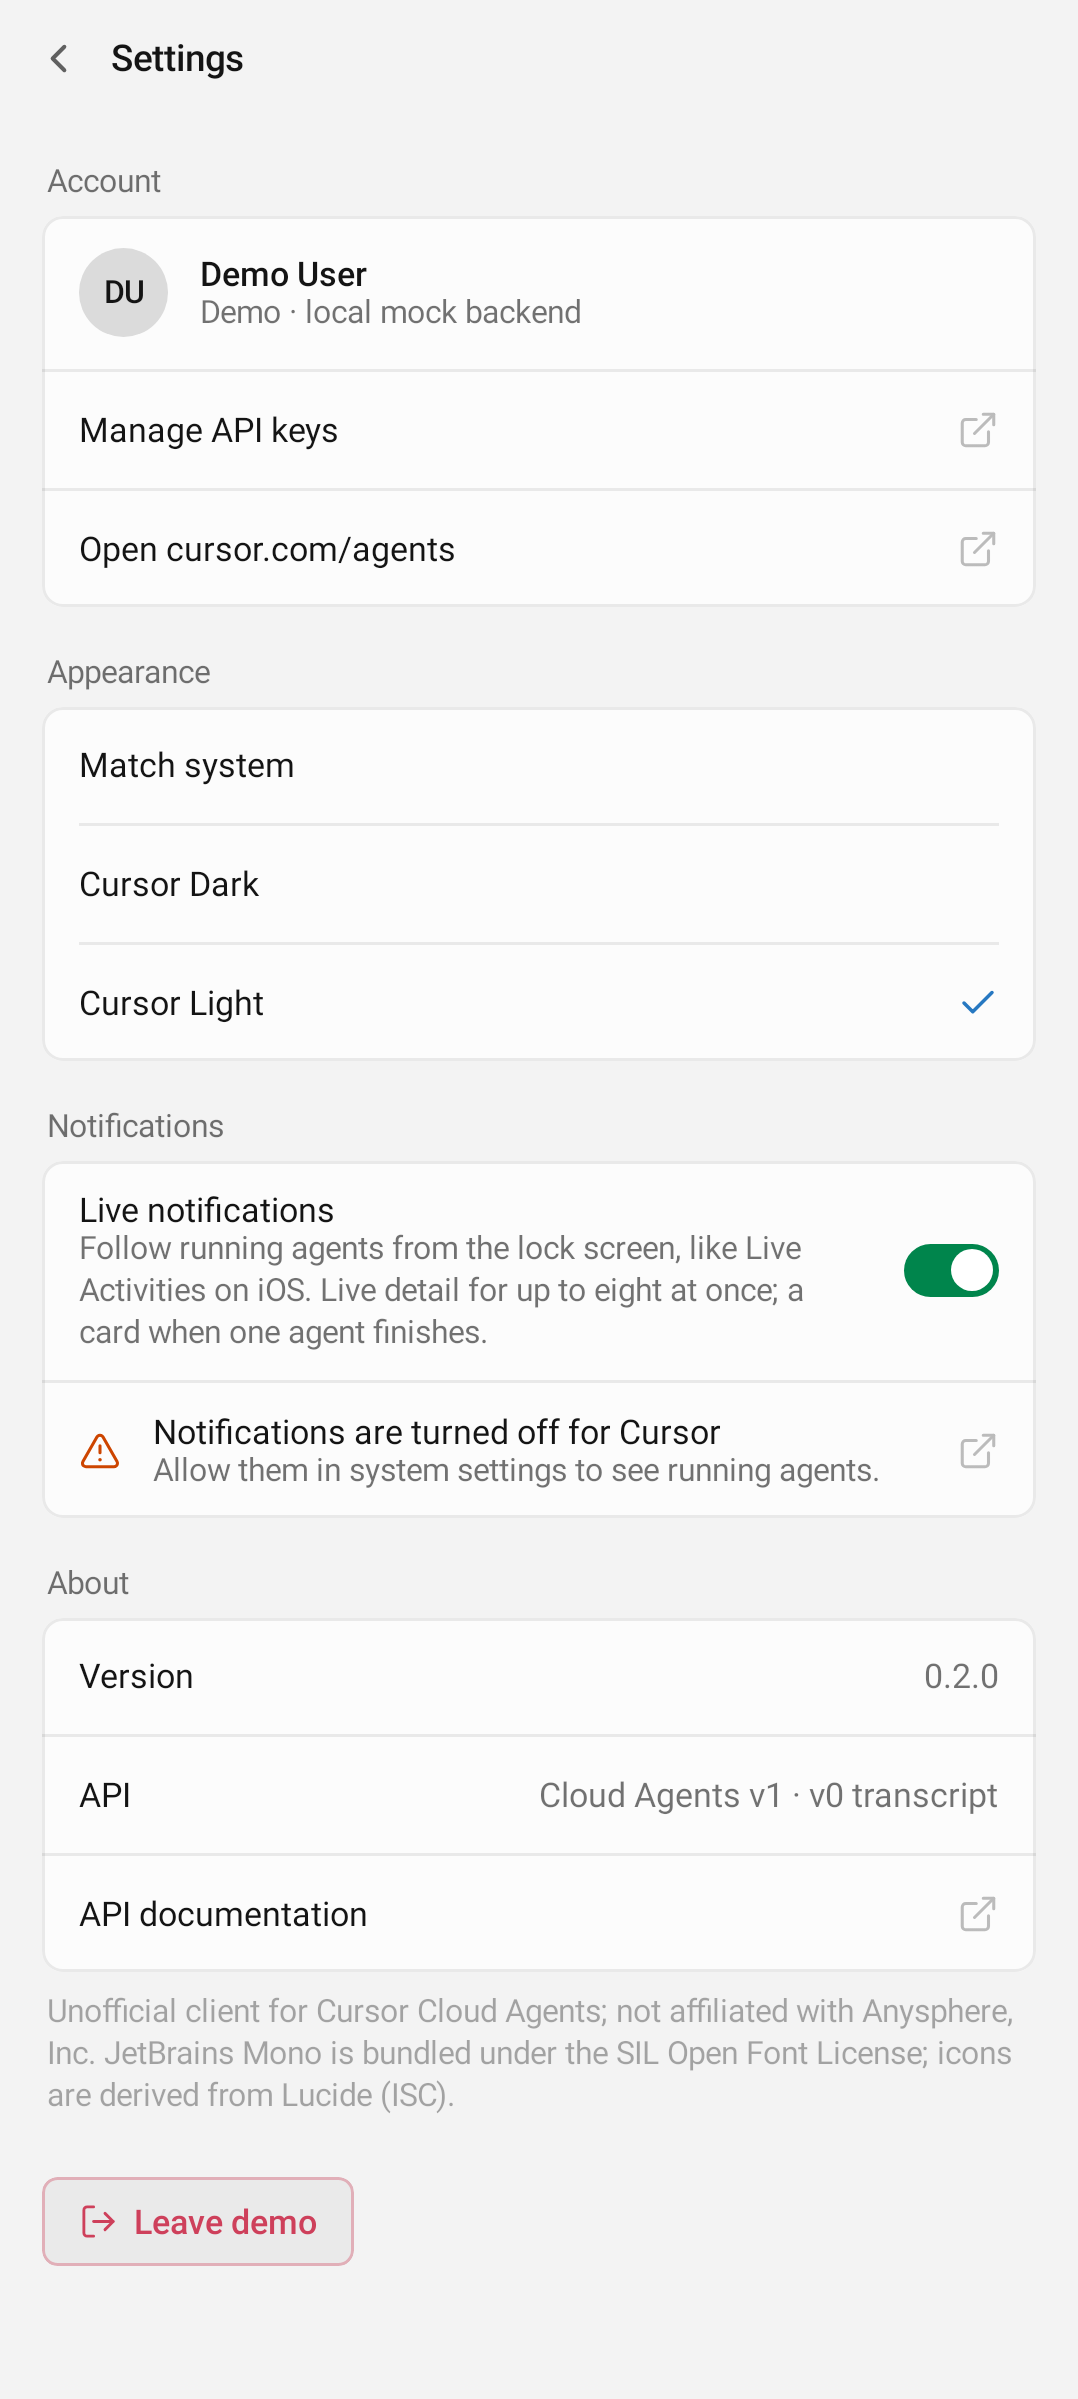
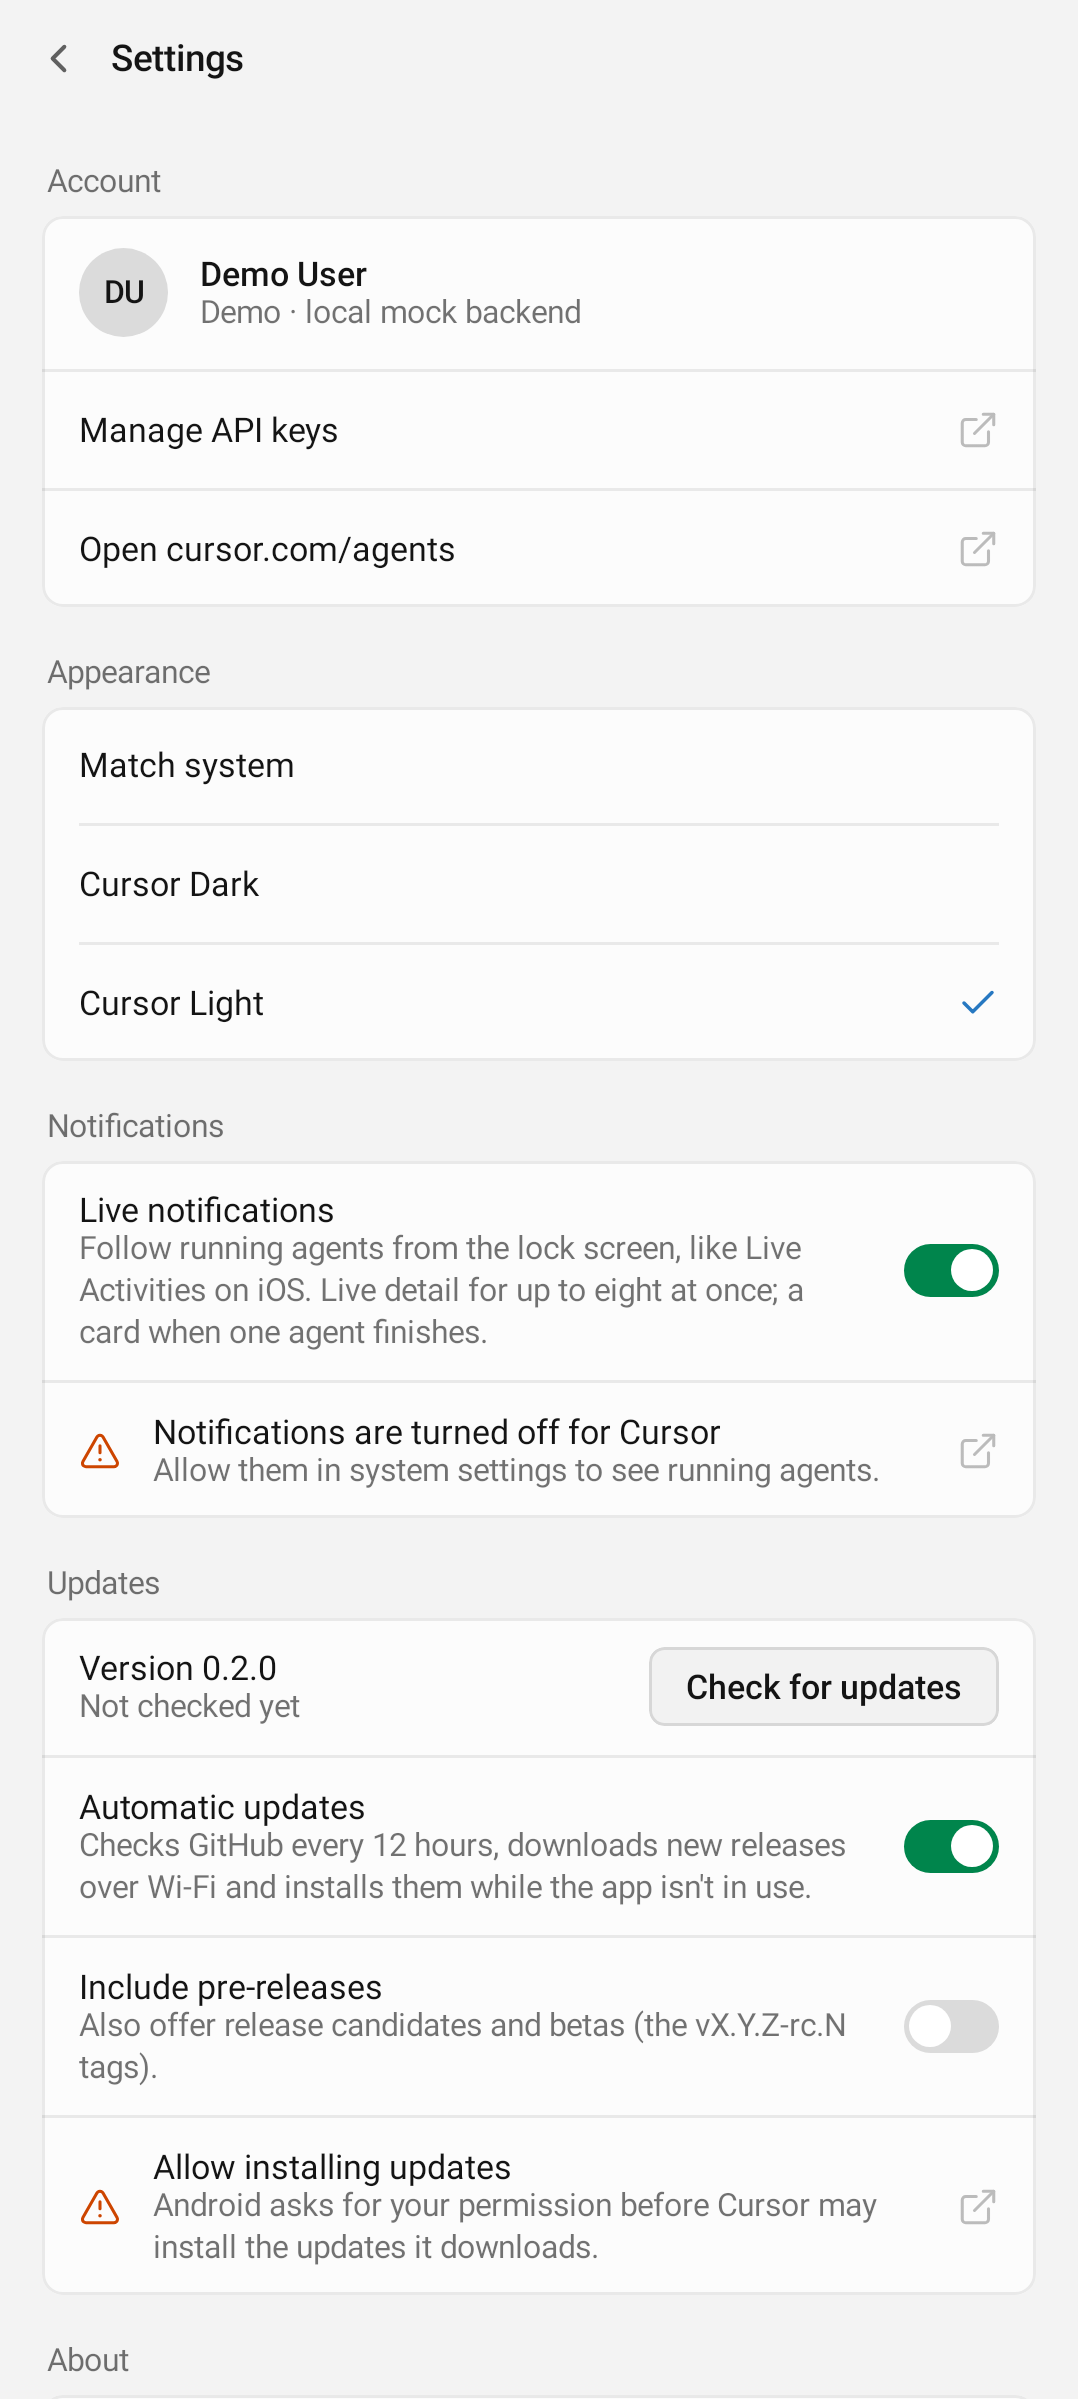
Settings: an Updates card, and an update hint in the sidebar footer
The Updates group shows the installed version with what the last check
found and the one action that follows from it - Check for updates,
Download (with progress and Cancel), Install, Confirm, Retry - plus a
link to the release page, the "Automatic updates" and "Include
pre-releases" toggles, and, until the user has allowed it, a row leading
to the system page where installing from this app is permitted. The
version row moves here from About, which gains a link to the repository
and its releases.

The sidebar shows "Update available" / "Update ready to install" above
the account footer while there is something to act on, in the manner of
the desktop app's restart-to-update affordance; it opens Settings.

The Settings screenshot is re-recorded for the new card.

diff --git a/app/src/main/java/com/cursorforandroid/ui/settings/SettingsScreen.kt b/app/src/main/java/com/cursorforandroid/ui/settings/SettingsScreen.kt
@@ -1,5 +1,8 @@
 package com.cursorforandroid.ui.settings
 
+import android.content.Intent
+import android.os.Build
+import android.provider.Settings
 import androidx.compose.foundation.background
 import androidx.compose.foundation.layout.Arrangement
 import androidx.compose.foundation.layout.Column
@@ -29,14 +32,19 @@ import androidx.compose.ui.platform.LocalContext
 import androidx.compose.ui.platform.LocalUriHandler
 import androidx.compose.ui.text.style.TextOverflow
 import androidx.compose.ui.unit.dp
+import androidx.core.net.toUri
 import androidx.lifecycle.compose.LifecycleResumeEffect
 import androidx.lifecycle.compose.collectAsStateWithLifecycle
 import com.cursorforandroid.AppGraph
 import com.cursorforandroid.BuildConfig
 import com.cursorforandroid.data.api.CursorEndpoints
 import com.cursorforandroid.data.repo.SessionState
+import com.cursorforandroid.data.update.GitHubReleasesClient
+import com.cursorforandroid.data.update.UpdateManager
 import com.cursorforandroid.domain.CursorUser
 import com.cursorforandroid.domain.SignInMethod
+import com.cursorforandroid.domain.UpdatePhase
+import com.cursorforandroid.domain.UpdateState
 import com.cursorforandroid.notifications.LiveNotifications
 import com.cursorforandroid.ui.agents.Avatar
 import com.cursorforandroid.ui.components.CursorButton
@@ -52,6 +60,7 @@ import com.cursorforandroid.ui.theme.CursorTheme
 import com.cursorforandroid.ui.theme.ThemeMode
 import com.cursorforandroid.util.TimeFormat
 import kotlinx.coroutines.launch
+import java.util.Locale
 
 /** Settings in the desktop settings-page idiom: 12sp group labels, bordered cards of 38dp rows. */
 @Composable
@@ -139,13 +148,18 @@ fun SettingsScreen(
                 NotificationRows(graph)
             }
 
+            Group("Updates")
+            CursorCard(Modifier.fillMaxWidth().widthIn(max = 640.dp)) {
+                UpdateRows(graph, uriHandler::openUri)
+            }
+
             Group("About")
             CursorCard(Modifier.fillMaxWidth().widthIn(max = 640.dp)) {
-                InfoRow("Version", BuildConfig.VERSION_NAME)
-                HairlineDivider()
                 InfoRow("API", "Cloud Agents v1 · v0 transcript")
                 HairlineDivider()
                 LinkRow("API documentation", "https://cursor.com/docs/cloud-agent/api/endpoints", uriHandler::openUri)
+                HairlineDivider()
+                LinkRow("Source code and releases", GitHubReleasesClient.releasesPageUrl(BuildConfig.GITHUB_REPO), uriHandler::openUri)
             }
             Text(
                 "Unofficial client for Cursor Cloud Agents; not affiliated with Anysphere, Inc. JetBrains Mono is bundled under the SIL Open Font License; icons are derived from Lucide (ISC).",
@@ -206,6 +220,135 @@ private fun NotificationRows(graph: AppGraph) {
             subtitle = "Adds the status-bar chip and the lock-screen card on Android 16.",
             onClick = { runCatching { context.startActivity(liveUpdatesIntent) } },
         )
+    }
+}
+
+/**
+ * The in-app updater: the installed version with what the last check found and the one action that follows from it
+ * (check, download, install, retry), the release page, the two preferences, and — until the user has allowed it —
+ * the system page where installing from this app is permitted. The permission is re-read when the screen resumes.
+ */
+@Composable
+private fun UpdateRows(graph: AppGraph, open: (String) -> Unit) {
+    val colors = CursorTheme.colors
+    val type = CursorTheme.typography
+    val scope = rememberCoroutineScope()
+    val context = LocalContext.current
+    val updates = graph.updates
+    val state by updates.state.collectAsStateWithLifecycle()
+    val autoUpdate by updates.autoUpdate.collectAsStateWithLifecycle(initialValue = true)
+    val includePreReleases by updates.includePreReleases.collectAsStateWithLifecycle(initialValue = false)
+    var resumeCount by remember { mutableIntStateOf(0) }
+    LifecycleResumeEffect(Unit) {
+        resumeCount++
+        onPauseOrDispose { }
+    }
+    val canInstall = remember(resumeCount) { context.packageManager.canRequestPackageInstalls() }
+    val allowInstalls = {
+        runCatching {
+            context.startActivity(Intent(Settings.ACTION_MANAGE_UNKNOWN_APP_SOURCES, "package:${context.packageName}".toUri()))
+        }
+    }
+
+    Row(Modifier.fillMaxWidth().padding(horizontal = 14.dp, vertical = 11.dp), verticalAlignment = Alignment.CenterVertically) {
+        Column(Modifier.weight(1f)) {
+            Text("Version ${BuildConfig.VERSION_NAME}", style = type.base, color = colors.textPrimary)
+            Text(
+                updateStatusLine(state),
+                style = type.small,
+                color = if (state is UpdateState.Failed) colors.red else colors.textTertiary,
+            )
+        }
+        Spacer(Modifier.width(12.dp))
+        when (val s = state) {
+            UpdateState.Idle, is UpdateState.UpToDate, is UpdateState.Installed ->
+                CursorButton("Check for updates", onClick = updates::checkNow, height = 30.dp)
+            UpdateState.Checking -> CursorButton("Checking…", onClick = {}, enabled = false, height = 30.dp)
+            is UpdateState.Available ->
+                if (s.signatureMismatch) {
+                    CursorButton("Open release", onClick = { open(s.release.htmlUrl) }, height = 30.dp)
+                } else {
+                    CursorButton("Download", onClick = updates::downloadNow, primary = true, height = 30.dp)
+                }
+            is UpdateState.Downloading -> CursorButton("Cancel", onClick = updates::cancelDownload, height = 30.dp)
+            is UpdateState.Downloaded ->
+                CursorButton("Install", onClick = { if (canInstall) updates.installNow() else allowInstalls() }, primary = true, height = 30.dp)
+            is UpdateState.Installing ->
+                if (s.awaitingConfirmation) {
+                    CursorButton("Confirm", onClick = updates::resumePendingInstall, primary = true, height = 30.dp)
+                } else {
+                    CursorButton("Installing…", onClick = {}, enabled = false, height = 30.dp)
+                }
+            is UpdateState.Failed ->
+                CursorButton(if (s.phase == UpdatePhase.Check) "Check again" else "Retry", onClick = updates::retry, height = 30.dp)
+        }
+    }
+    state.release?.takeIf { it.htmlUrl.isNotBlank() }?.let { release ->
+        HairlineDivider()
+        LinkRow("What's new in ${release.versionName}", release.htmlUrl, open)
+    }
+    HairlineDivider()
+    ToggleRow(
+        title = "Automatic updates",
+        subtitle = if (Build.VERSION.SDK_INT >= UpdateManager.SILENT_SELF_UPDATE_SDK) {
+            "Checks GitHub every 12 hours, downloads new releases over Wi-Fi and installs them while the app isn't in use."
+        } else {
+            "Checks GitHub every 12 hours, downloads new releases over Wi-Fi and lets you know when one is ready to install."
+        },
+        checked = autoUpdate,
+        onCheckedChange = { scope.launch { updates.setAutoUpdate(it) } },
+    )
+    HairlineDivider()
+    ToggleRow(
+        title = "Include pre-releases",
+        subtitle = "Also offer release candidates and betas (the vX.Y.Z-rc.N tags).",
+        checked = includePreReleases,
+        onCheckedChange = { scope.launch { updates.setIncludePreReleases(it) } },
+    )
+    if (!canInstall) {
+        HairlineDivider()
+        HintRow(
+            title = "Allow installing updates",
+            subtitle = "Android asks for your permission before Cursor may install the updates it downloads.",
+            onClick = { allowInstalls() },
+        )
+    }
+}
+
+private fun updateStatusLine(state: UpdateState): String = when (state) {
+    UpdateState.Idle -> "Not checked yet"
+    UpdateState.Checking -> "Checking GitHub for a newer release…"
+    is UpdateState.UpToDate -> "Up to date · ${checkedLabel(state.checkedAtMs)}"
+    is UpdateState.Available ->
+        if (state.signatureMismatch) "${state.release.versionName} is out, but signed with a different key" else "${state.release.versionName} is available"
+    is UpdateState.Downloading -> state.fraction?.let { "Downloading ${state.release.versionName}… ${(it * 100).toInt()}%" }
+        ?: "Downloading ${state.release.versionName}… ${"%.1f".format(Locale.US, state.bytesRead / 1_048_576.0)} MB"
+    is UpdateState.Downloaded -> "${state.release.versionName} is ready · the app closes while it installs"
+    is UpdateState.Installing -> if (state.awaitingConfirmation) "Waiting for you to confirm the installation" else "Installing ${state.release.versionName}…"
+    is UpdateState.Failed -> state.message
+    is UpdateState.Installed -> "Updated to ${state.versionName}"
+}
+
+/** "checked just now", "checked 4m ago", "checked Sep 4". */
+private fun checkedLabel(checkedAtMs: Long): String = when (val age = TimeFormat.relativeShort(checkedAtMs)) {
+    "now" -> "checked just now"
+    else -> if (age.last().isLetter() && age.length <= 4) "checked $age ago" else "checked $age"
+}
+
+@Composable
+private fun ToggleRow(title: String, subtitle: String, checked: Boolean, onCheckedChange: (Boolean) -> Unit) {
+    val colors = CursorTheme.colors
+    val type = CursorTheme.typography
+    Row(
+        Modifier.fillMaxWidth().pressable({ onCheckedChange(!checked) }, CursorTheme.shapes.lg).padding(horizontal = 14.dp, vertical = 11.dp),
+        verticalAlignment = Alignment.CenterVertically,
+    ) {
+        Column(Modifier.weight(1f)) {
+            Text(title, style = type.base, color = colors.textPrimary)
+            Text(subtitle, style = type.small, color = colors.textTertiary)
+        }
+        Spacer(Modifier.width(12.dp))
+        CursorToggle(checked = checked, onCheckedChange = onCheckedChange)
     }
 }
 

diff --git a/app/src/main/java/com/cursorforandroid/ui/agents/Sidebar.kt b/app/src/main/java/com/cursorforandroid/ui/agents/Sidebar.kt
@@ -89,6 +89,8 @@ fun Sidebar(
     onQueryChange: (String) -> Unit,
     callbacks: SidebarCallbacks,
     modifier: Modifier = Modifier,
+    /** "Update available · 0.3.0" and the like; a row above the account footer that opens Settings. Null hides it. */
+    updateHint: String? = null,
 ) {
     val colors = CursorTheme.colors
     val type = CursorTheme.typography
@@ -172,7 +174,26 @@ fun Sidebar(
         }
 
         HairlineDivider()
+        if (updateHint != null) {
+            UpdateHintRow(updateHint, onClick = callbacks.onSettings)
+            HairlineDivider()
+        }
         AccountFooter(user, isDemo, selected = selectedDestination == SidebarDestination.Settings, onClick = callbacks.onSettings)
+    }
+}
+
+/** The desktop app's "Restart to update" affordance, sized to the sidebar rows; leads to the Updates card in Settings. */
+@Composable
+private fun UpdateHintRow(text: String, onClick: () -> Unit) {
+    val colors = CursorTheme.colors
+    Row(
+        Modifier.fillMaxWidth().pressable(onClick, RectangleShape).height(CursorDimens.sidebarRow).padding(start = 16.dp, end = 14.dp),
+        verticalAlignment = Alignment.CenterVertically,
+    ) {
+        Icon(CursorIcons.ArrowDown, null, tint = colors.accent, modifier = Modifier.size(14.dp))
+        Spacer(Modifier.width(8.dp))
+        Text(text, style = CursorTheme.typography.small, color = colors.accent, maxLines = 1, overflow = TextOverflow.Ellipsis, modifier = Modifier.weight(1f))
+        Icon(CursorIcons.ChevronRight, null, tint = colors.iconQuaternary, modifier = Modifier.size(14.dp))
     }
 }
 

diff --git a/app/src/main/java/com/cursorforandroid/ui/navigation/AppNavHost.kt b/app/src/main/java/com/cursorforandroid/ui/navigation/AppNavHost.kt
@@ -33,6 +33,7 @@ import androidx.lifecycle.compose.collectAsStateWithLifecycle
 import androidx.lifecycle.viewmodel.compose.viewModel
 import com.cursorforandroid.AppGraph
 import com.cursorforandroid.domain.CursorUser
+import com.cursorforandroid.domain.UpdateState
 import com.cursorforandroid.notifications.NotificationPermissionPrompt
 import com.cursorforandroid.ui.agents.AgentRowActions
 import com.cursorforandroid.ui.agents.AgentsViewModel
@@ -122,6 +123,13 @@ fun AppNavHost(
         Screen.Settings -> SidebarDestination.Settings
         is Screen.Agent -> null
     }
+    val updateState by graph.updates.state.collectAsStateWithLifecycle()
+    val updateHint = when (val s = updateState) {
+        is UpdateState.Available -> if (s.signatureMismatch) null else "Update available · ${s.release.versionName}"
+        is UpdateState.Downloaded -> "Update ready to install · ${s.release.versionName}"
+        is UpdateState.Installing -> if (s.awaitingConfirmation) "Update waiting for your confirmation" else null
+        else -> null
+    }
 
     @Composable
     fun sidebar(inDrawer: Boolean, modifier: Modifier = Modifier) {
@@ -131,6 +139,7 @@ fun AppNavHost(
             isDemo = isDemo,
             selectedAgentId = selectedAgentId,
             selectedDestination = destination,
+            updateHint = updateHint,
             onQueryChange = agentsViewModel::setQuery,
             callbacks = SidebarCallbacks(
                 onNewChat = { navigateTop(Screen.Home) },
